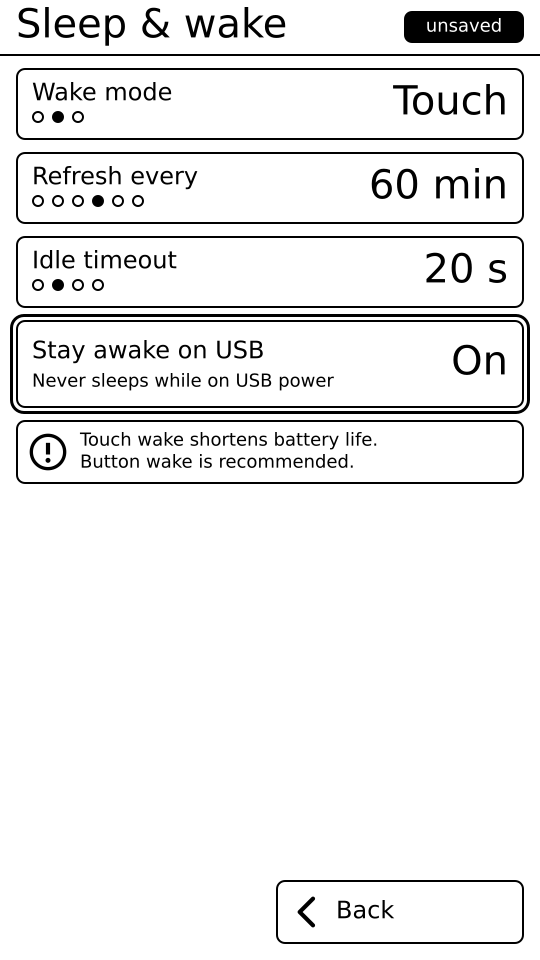
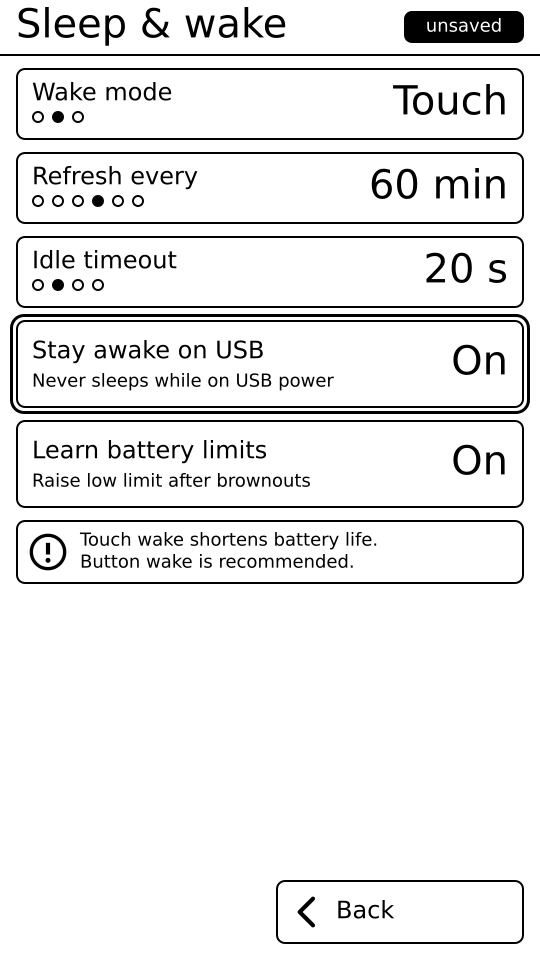
task 079: UI spec for Learn battery limits row and battery text

Changed region(s): [[0.0296, 0.4375, 0.9778, 0.625]]

diff --git a/docs/ui/settings.md b/docs/ui/settings.md
@@ -126,7 +126,7 @@ fitting rule: F24, then F18, then `…`.
 | Row | Rect | cy | Label | Value |
 |-----|------|----|-------|-------|
 | Firmware | (16, 504, 508, 48) | 528 | `Firmware` | `v0.3.1` |
-| Battery | (16, 552, 508, 48) | 576 | `Battery` | `78%, 3.92 V` (alert icon if <= 15 %, bolt icon if charging) |
+| Battery | (16, 552, 508, 48) | 576 | `Battery` | `78%, 3.92 V`; with a learned limit (task 079) `78%, 3.92 V, min 3.88 V`. Fit rule: worst case `100%, 3.92 V, min 3.88 V` is 308 px at F24 (column x 174..524 = 350, or 334 with the icon at x 190 + text at 206: fits in portrait), 229 px at F18 (landscape column x 646..944 = 298 with icon 314: F24 does not fit, so F18 is used by the fit rule). Shorter fallback if ever needed: `78%, 3.92 V, min 3.88` (drop the last `V`). (alert icon if <= 15 %, bolt icon if charging) |
 | HA | (16, 600, 508, 48) | 624 | `Home Assistant` | `Demo mode` (demo mode On) / `internal, ok 14:05` / `external, ok 14:05` / alert icon + `offline, last ok 13:05` / alert icon + `offline, never ok` / `-` before the first session |
 | Wi-Fi | (16, 648, 508, 48) | 672 | `Wi-Fi` | `Demo mode` (demo mode On), or SSID, or `SSID (not connected)` (SSID of the connected profile), or `-` |
 | Config | (16, 696, 508, 64) | 728 (lines 714 / 742) | `Config` | `OK`; or alert icon (cy 702) + first error up to 2 lines: `tabs[0].widgets[2].entity (line 34)`; or warn icon + `no config.yaml on SD`; `built-in demo` while demo mode is On (the SD config is not read; OPEN-S4) |
@@ -200,6 +200,8 @@ Portrait: Orientation pip row (16, 68, 508, 72). Below it a static caption F18 D
 
 ### 8.2 Sleep & wake (`settings-sleep-*.svg`)
 Pip rows Wake mode (68), Refresh every (152), Idle timeout (236), then the touch-wake note slot (16, 320, 508, 64) (empty with Button). Landscape: rows at y = 64, 144, 224 (h 68), note (16, 304, 456, 64). Mockups: Wake Touch (note visible), focus on Refresh every.
+
+**Learn battery limits (task 079, revision 9).** Fifth row, hint-row type like 9.1 (88 high, `Off` / `On` F40 INK, label `Learn battery limits` F24, hint `Raise low limit after brownouts` F18 INK, label cy +32, hint cy +62, value cy +44 from row top). Portrait (16, 420, 508, 88) (12 below Stay awake, ends 508); touch-wake note moves to (16, 520, 508, 64). Landscape (488, 164, 456, 88) (right column, 12 below Stay awake); note unchanged (16, 304, 456, 64). Ids: w-5 = this row, w-6 = note, w-7 = Back. Rocker focus order: Wake mode, Refresh every, Idle timeout, Stay awake on USB, Learn battery limits, Back. PUSH or tap toggles in the shared buffer (partial of the row, `unsaved` chip if dirty flipped). Mockups show it On.
 
 ### 8.3 Network (`settings-network-*.svg`)
 Hint rows, 88 high. Portrait: Wi-Fi (16, 68, 508, 88), HA connection (16, 168, 508, 88), note slot (16, 268, 508, 64). Landscape: Wi-Fi (16, 64, 456, 88), HA connection (488, 64, 456, 88), note (16, 164, 456, 64) (under Wi-Fi). Hints are live, read from the network state, never edited:
